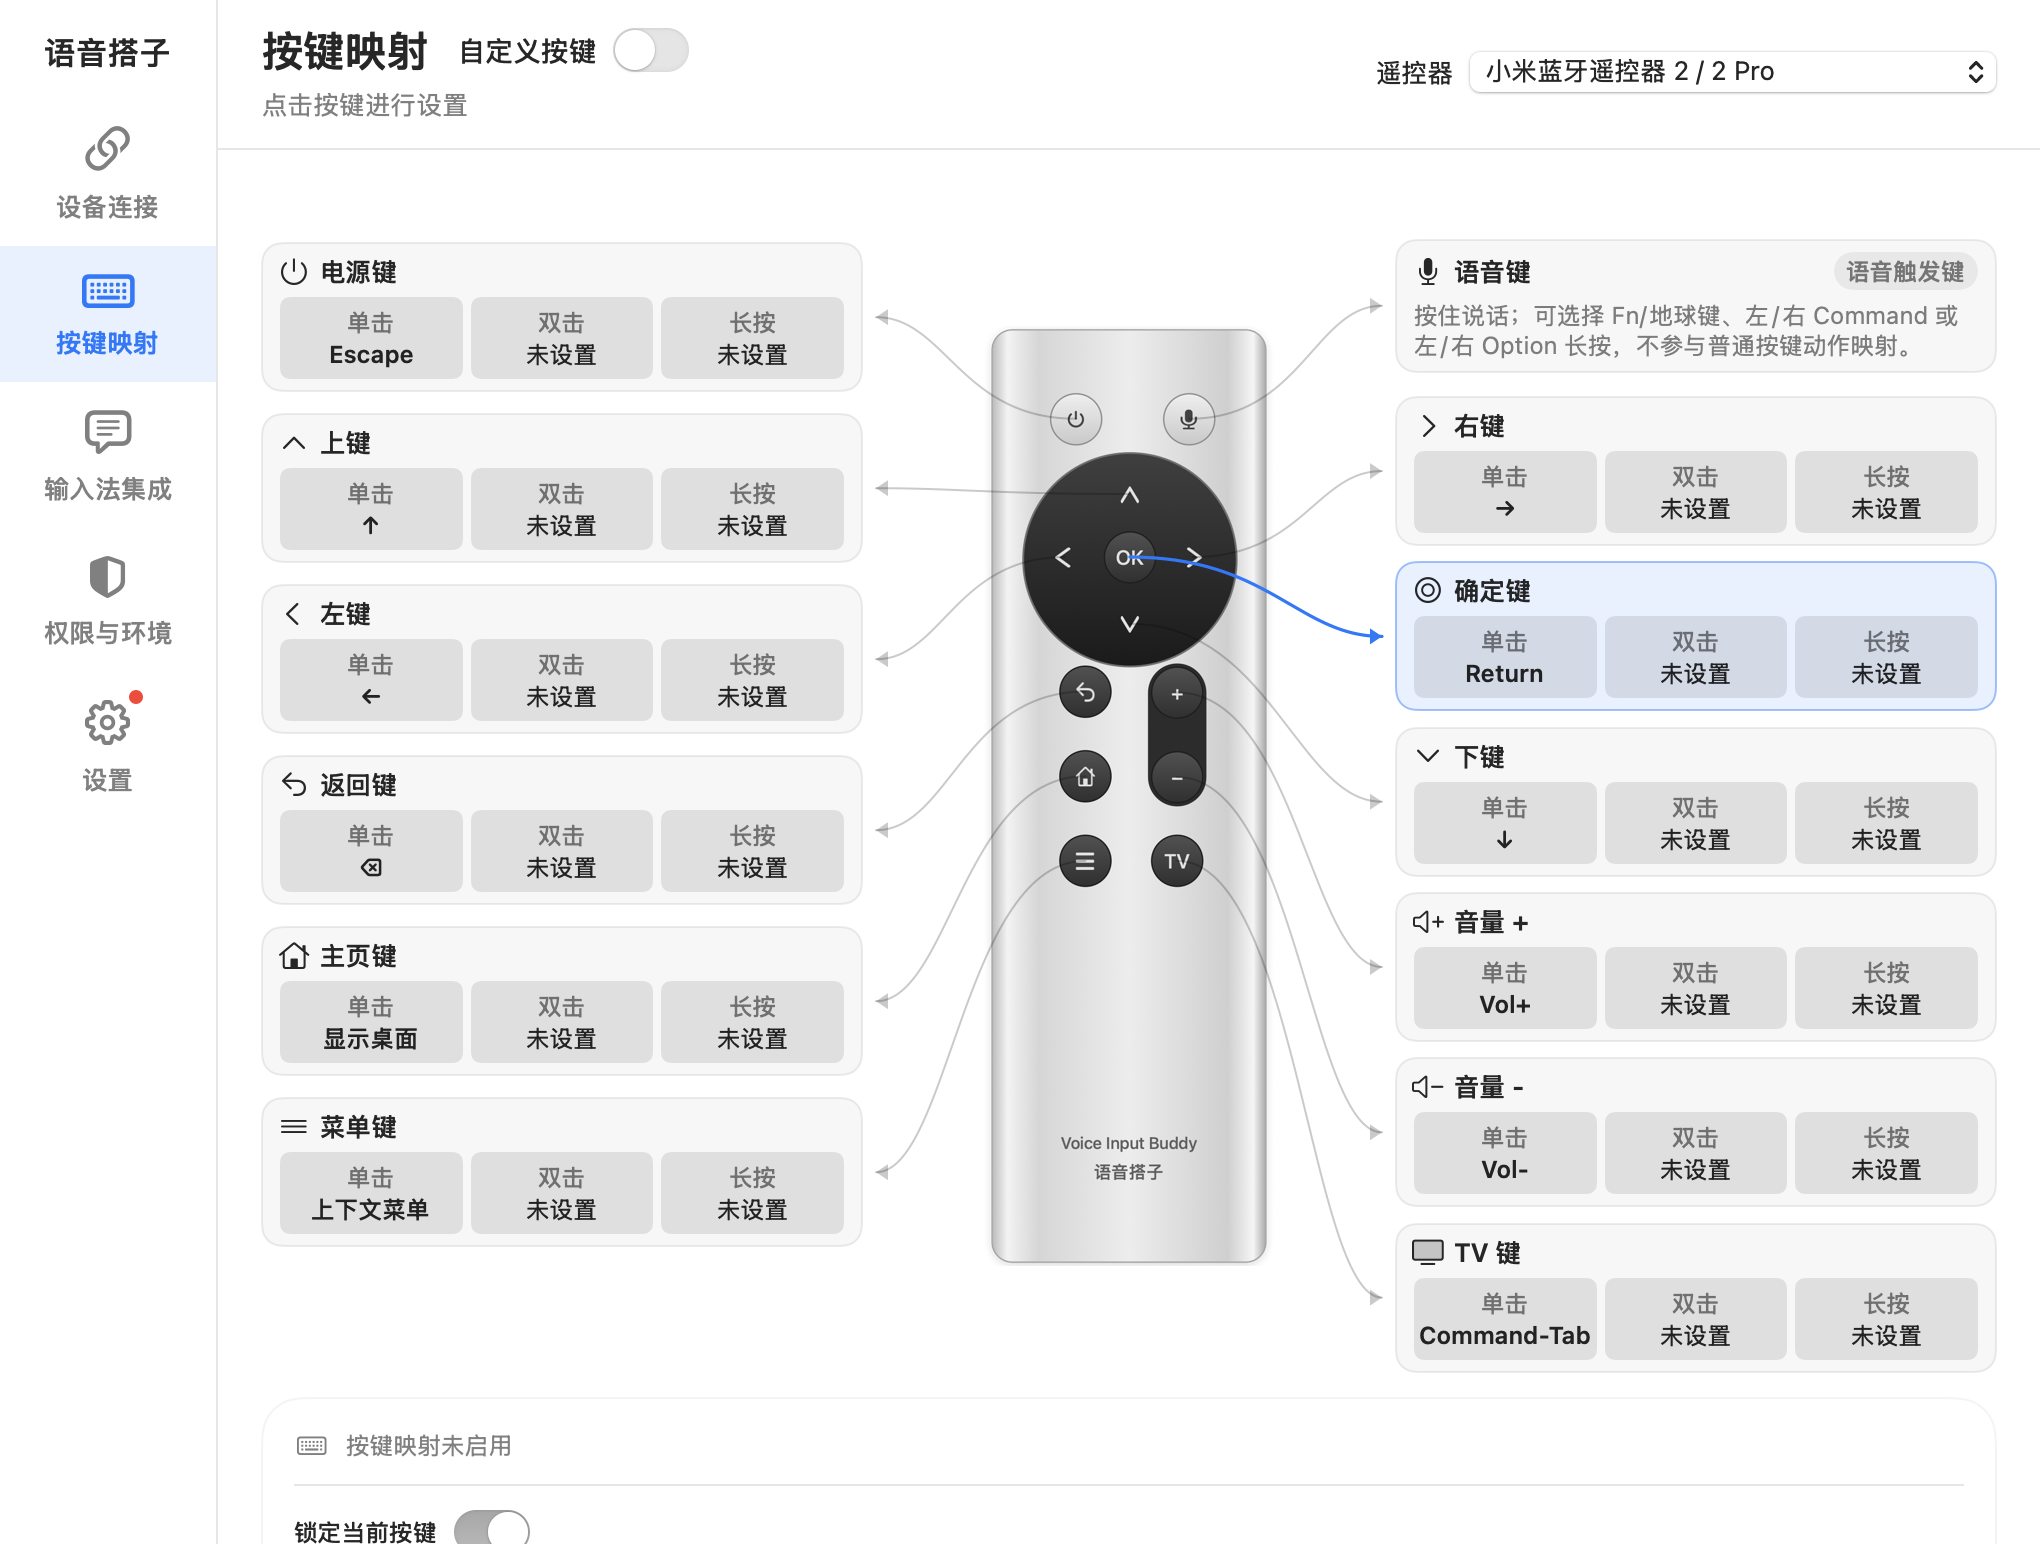
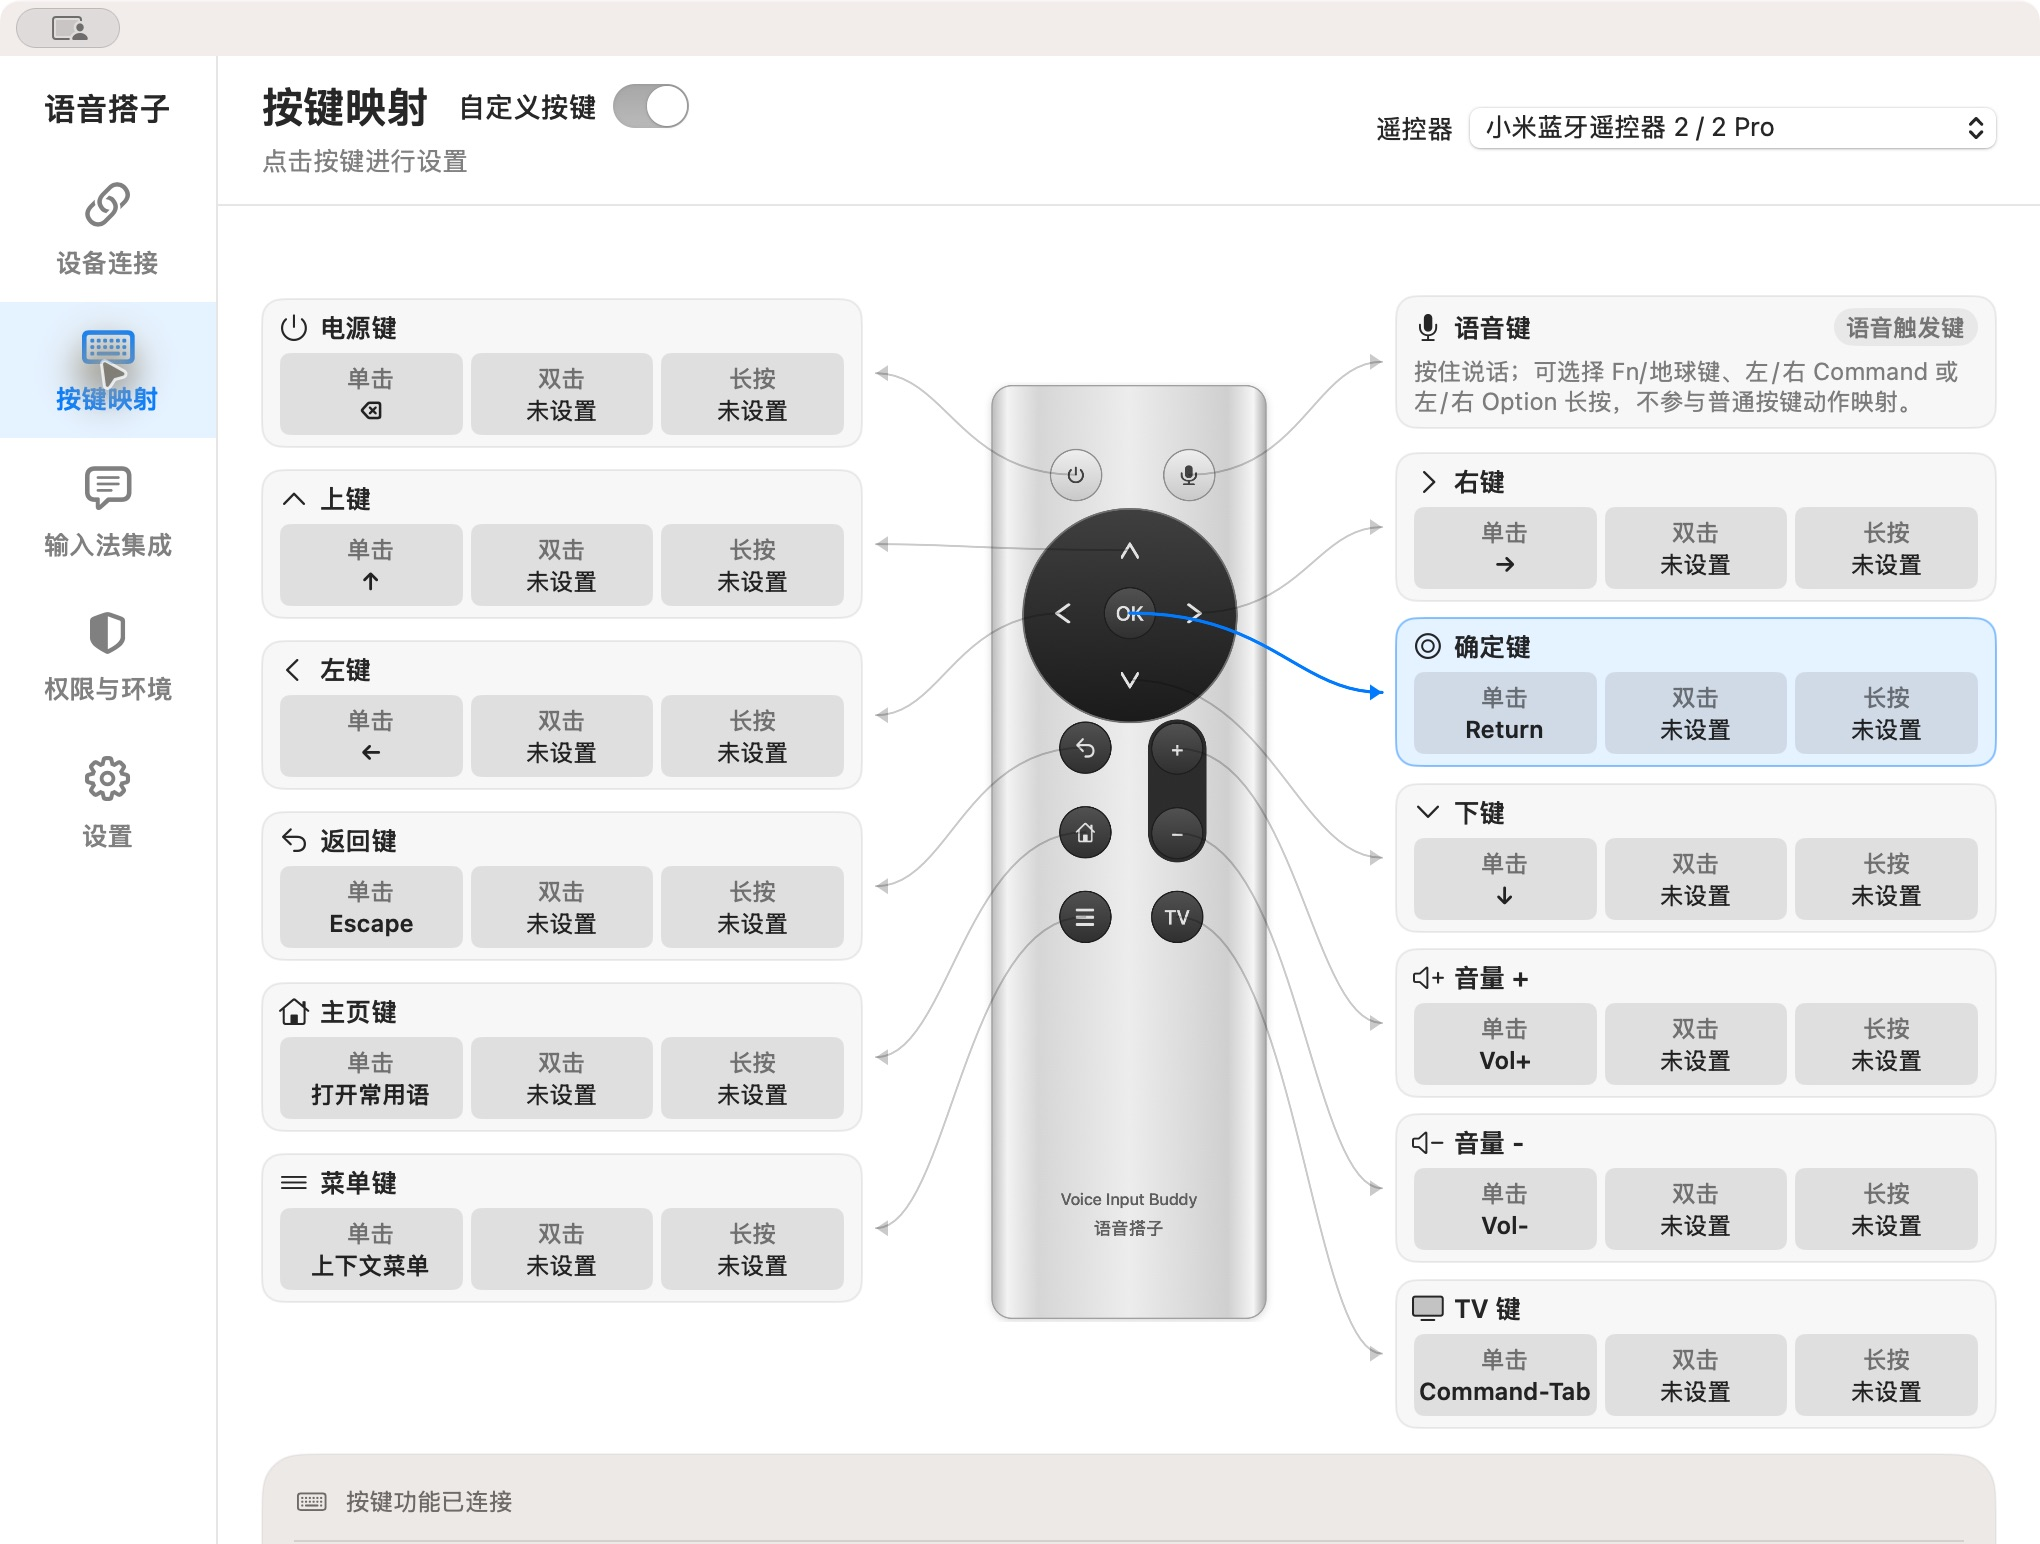
docs(web): refresh screenshots from the installed release

diff --git a/pages/demo.js b/pages/demo.js
@@ -39,7 +39,7 @@ button.addEventListener('blur', stop);
         badge: '多设备管理',
         windowTitle: '设备连接 · Voice Input Buddy',
         src: 'assets/screenshots/connection-zh.png',
-        alt: 'Voice Input Buddy 设备连接界面：小米与 Google G9N9N 遥控器卡片、连接状态、电量显示与麦克风独立增益滑块',
+        alt: 'Voice Input Buddy 正式版设备连接界面：已连接的小米遥控器、电量、麦克风增益与设备信息',
         desc: '管理所有已配对的蓝牙遥控器（如小米遥控器、Google G9N9N），实时查看连接状态与电池电量；支持单独调节并保存每台遥控器的麦克风输入增益（0 dB 至 20 dB）。'
       },
       {
@@ -79,8 +79,8 @@ button.addEventListener('blur', stop);
         badge: '版本与更新',
         windowTitle: '关于与设置 · Voice Input Buddy',
         src: 'assets/screenshots/about-zh.png',
-        alt: 'Voice Input Buddy 关于与设置界面：应用版本信息、自动检查更新、发布说明与通用卸载器',
-        desc: '查看当前 App 版本与架构（Apple 芯片 / Intel），支持通过 Sparkle 自动或手动检查更新并查看更新日志；提供开源许可证信息与通用卸载工具入口。'
+        alt: 'Voice Input Buddy 正式版设置界面：应用版本、更新检查、配置导入导出与图标和语言偏好',
+        desc: '查看当前版本和更新状态，导入或导出配置，设置 Dock 与菜单栏图标、启动行为和应用语言。'
       }
     ],
     wizard: [
@@ -97,8 +97,8 @@ button.addEventListener('blur', stop);
         badge: '向导 · 设备准备',
         windowTitle: '设备类型 · 首次使用向导',
         src: 'assets/screenshots/wizard-source-zh.png',
-        alt: '首次使用向导：选择控制设备类型，支持实体遥控器（小米、Google G9N9N 等）或手机输入伴侣',
-        desc: '选择你使用的硬件设备：支持小米蓝牙遥控器、Google G9N9N、Apple Siri Remote 等实体遥控器，或通过扫码使用手机作为控制与语音输入伴侣。'
+        alt: '首次使用向导：选择小米、Google 或 Apple 遥控器，尚未支持的设备显示提示',
+        desc: '选择要配置的实体遥控器。可查看小米、Google 与 Apple 遥控器的外观；尚未支持的设备会显示提示，不能继续设置。'
       },
       {
         title: '第 3 步 · 连接遥控器',
@@ -150,7 +150,7 @@ button.addEventListener('blur', stop);
         badge: 'Multi-device',
         windowTitle: 'Devices · Voice Input Buddy',
         src: 'assets/screenshots/connection-en.png',
-        alt: 'Voice Input Buddy Devices interface: Xiaomi and Google G9N9N remote cards, connection status, battery levels, and independent microphone gain sliders',
+        alt: 'Voice Input Buddy installed release: connected Xiaomi remote, battery level, microphone gain, and device information',
         desc: 'Manage connected Bluetooth remotes (Xiaomi, Google G9N9N), check live battery percentages and charging states, and adjust individual microphone gain (0 dB to 20 dB).'
       },
       {
@@ -190,8 +190,8 @@ button.addEventListener('blur', stop);
         badge: 'Version & Updates',
         windowTitle: 'About & Settings · Voice Input Buddy',
         src: 'assets/screenshots/about-en.png',
-        alt: 'Voice Input Buddy About interface: application version, Sparkle automatic updates, release notes, and universal uninstaller',
-        desc: 'Check app version and architecture (Apple silicon / Intel), manage automatic Sparkle updates, inspect release notes, and access the uninstaller.'
+        alt: 'Voice Input Buddy installed release settings: version, update checks, configuration import/export, icon and language preferences',
+        desc: 'Check the current version and update status, import or export configuration, and manage Dock and menu bar icons, launch behavior, and app language.'
       }
     ],
     wizard: [
@@ -208,8 +208,8 @@ button.addEventListener('blur', stop);
         badge: 'Wizard · Device Choice',
         windowTitle: 'Control Source · Setup Wizard',
         src: 'assets/screenshots/wizard-source-en.png',
-        alt: 'Setup Wizard: Select control hardware, supporting physical remotes (Xiaomi, Google G9N9N) or phone companion',
-        desc: 'Select your preferred control hardware: physical remotes such as Xiaomi, Google G9N9N, Apple Siri Remote, or a mobile phone companion via QR code.'
+        alt: 'Setup Wizard: Xiaomi, Google, and Apple remote selection with notices for unsupported devices',
+        desc: 'Choose a physical remote and view its illustration. Xiaomi, Google, and Apple remotes are listed; unsupported devices show a notice and cannot proceed with setup.'
       },
       {
         title: 'Step 3 · Connect Remote',

diff --git a/pages/index.en.html b/pages/index.en.html
@@ -48,7 +48,7 @@
             <div class="window-dots"><i></i><i></i><i></i></div>
             <span class="window-title">Devices · Voice Input Buddy</span>
           </div>
-          <img src="assets/screenshots/connection-en.png" alt="Voice Input Buddy Devices interface: Xiaomi and Google G9N9N remote cards, connection status, battery levels, and independent microphone gain sliders" width="1020" height="772" loading="eager">
+          <img src="assets/screenshots/connection-en.png" alt="Voice Input Buddy installed release: connected Xiaomi remote, battery level, microphone gain, and device information" width="1020" height="772" loading="eager">
         </div>
       </div>
       <button class="stage-nav stage-next" type="button" aria-label="Next screenshot">›</button>

diff --git a/pages/index.html b/pages/index.html
@@ -48,7 +48,7 @@
             <div class="window-dots"><i></i><i></i><i></i></div>
             <span class="window-title">设备连接 · Voice Input Buddy</span>
           </div>
-          <img src="assets/screenshots/connection-zh.png" alt="Voice Input Buddy 设备连接界面：小米与 Google G9N9N 遥控器卡片、连接状态、电量显示与麦克风独立增益滑块" width="1020" height="772" loading="eager">
+          <img src="assets/screenshots/connection-zh.png" alt="Voice Input Buddy 正式版设备连接界面：已连接的小米遥控器、电量、麦克风增益与设备信息" width="1020" height="772" loading="eager">
         </div>
       </div>
       <button class="stage-nav stage-next" type="button" aria-label="下一张界面截图">›</button>

diff --git a/docs/provenance.md b/docs/provenance.md
@@ -15,3 +15,5 @@
 本项目新图标由 scripts/generate-icon.swift 绘制，菜单栏图标由 scripts/generate-status-icons.swift 绘制，表达麦克风与硬件按钮，未使用原品牌图形。
 
 设置向导截图位于 `Resources/Onboarding`，包括从上游继承的图片以及本项目重新截取的微信、豆包和 VoiceCursor 浅色图片；保留上游图片的来源归属，不把全部现有截图都归为上游素材。未使用其受限 App Logo 或遥控器产品照片。小米遥控器图是基于本项目按键布局参考生成的无品牌写实渲染；Google 与 Siri Remote 使用原创 SVG 示意图及 PNG 缩略图，均未使用厂商产品照片。`scripts/generate-remote-layout-reference.swift` 仅生成小米布局参考，不覆盖成品；按键位置与映射连线共用归一化坐标。提示词及维护说明见 [artwork.md](artwork.md) 与 [示意图说明](../Resources/RemoteIllustrations/README.md)。构建及安装包检查会验证截图与示意图完整性。
+
+网页 `pages/assets/screenshots` 的 26 张中英文界面与向导截图于 2026-10-18 从本机正式安装的 Voice Input Buddy v26-10-18.385 截取，分辨率为 2040×1544，替换原隔离预览截图。遥控器连接及普通按键检查使用真实小米 RC003；语音测试截图展示等待试说状态，不代表本次已完成语音验收。常用语页使用搜索筛选普通示例，未公开私人地址或完整号码。截图只做无损 PNG 编码优化，未改写界面内容。
